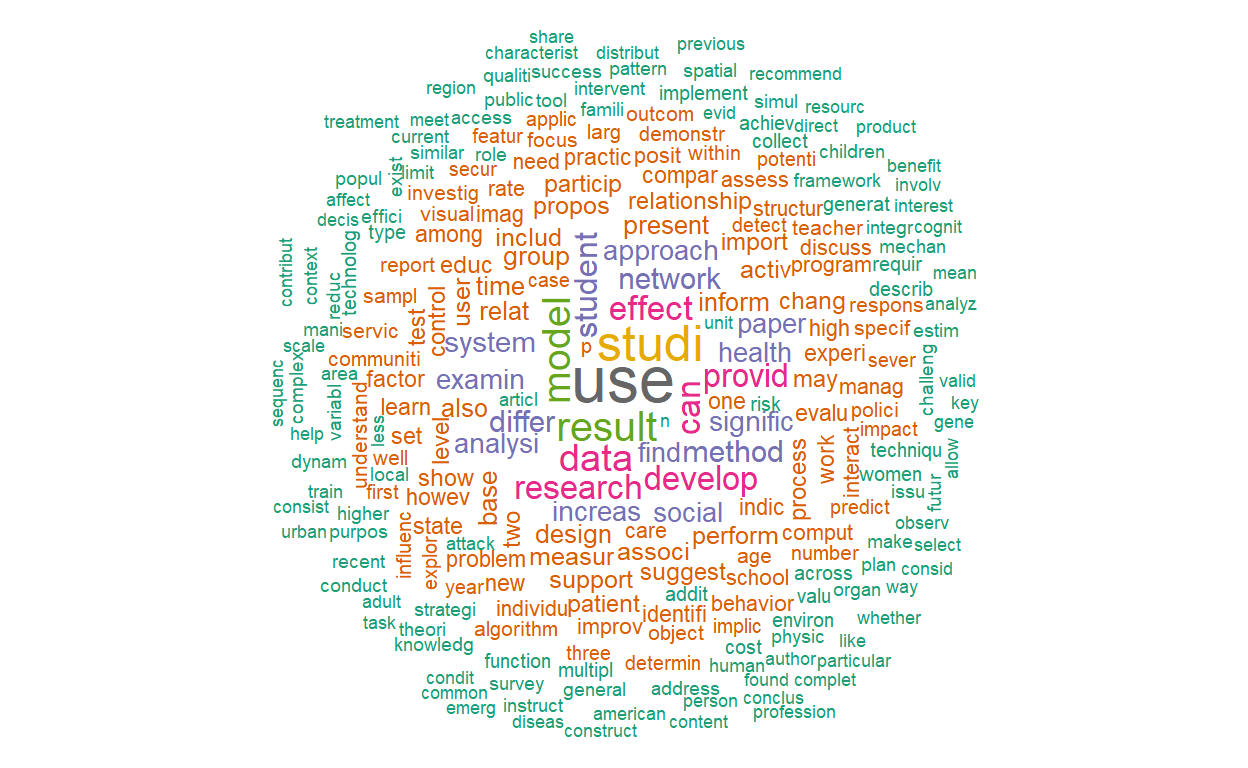
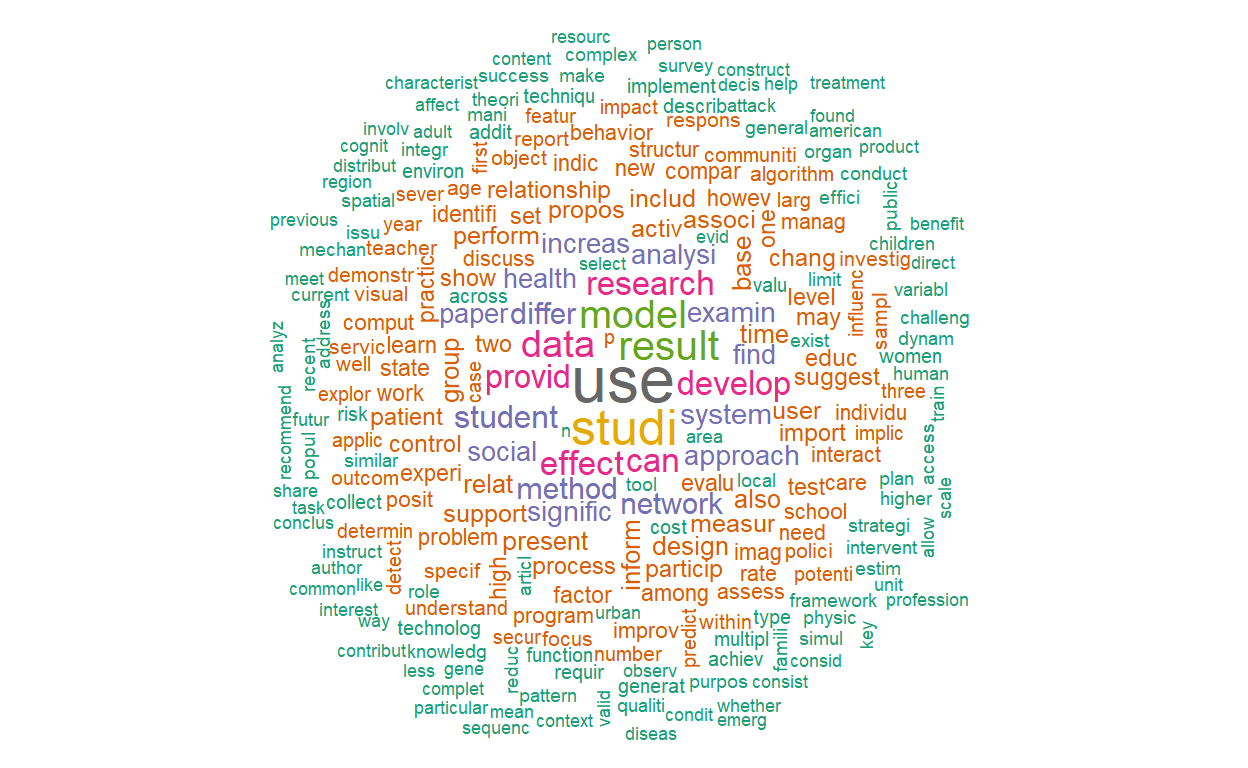
25 August 2024
added working R file

Changed region(s): [[0.2188, 0.0312, 0.7812, 0.9688]]

diff --git a/demo/code/TopicModelingwithR.html b/demo/code/TopicModelingwithR.html
@@ -137,7 +137,7 @@ $(document).ready(function () {
 <p>Let’s start by loading our packages and loading the dataset.</p>
 <pre class="r"><code>library(quanteda); library(tidyverse); library(RColorBrewer); library(quanteda.textplots)
 
-dataset &lt;- read_csv(&quot;https://raw.githubusercontent.com/manika-lamba/rladies-urmia/main/articles-sample.csv&quot;)
+dataset &lt;- read_csv(&quot;https://raw.githubusercontent.com/manika-lamba/workshop-iim/main/demo/data.csv&quot;)
 
 #create corpus
 myCorpus &lt;- corpus(dataset$Abstract)</code></pre>
